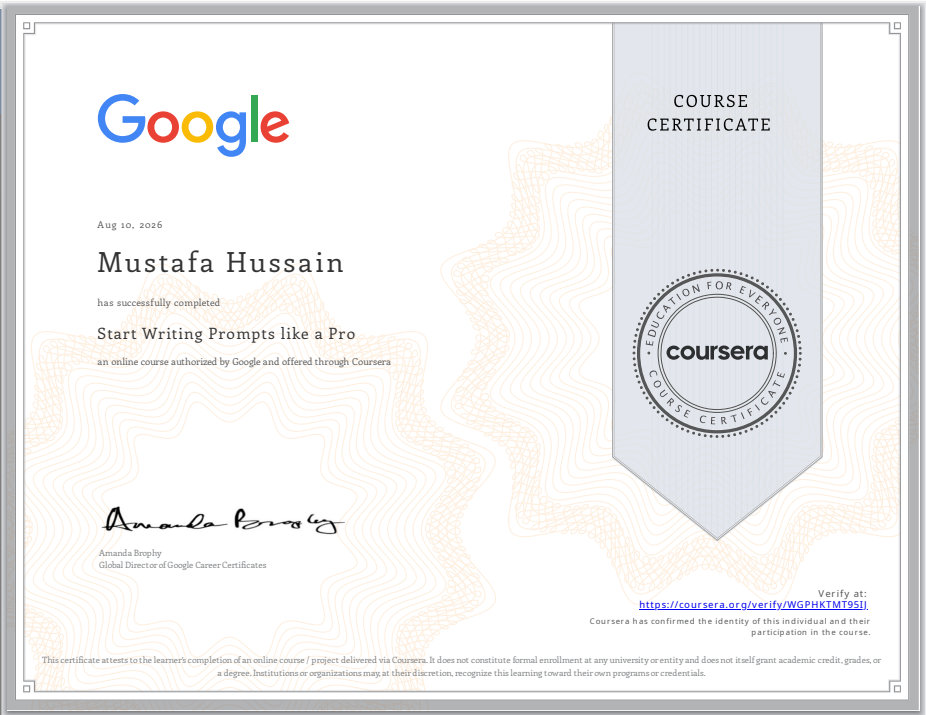
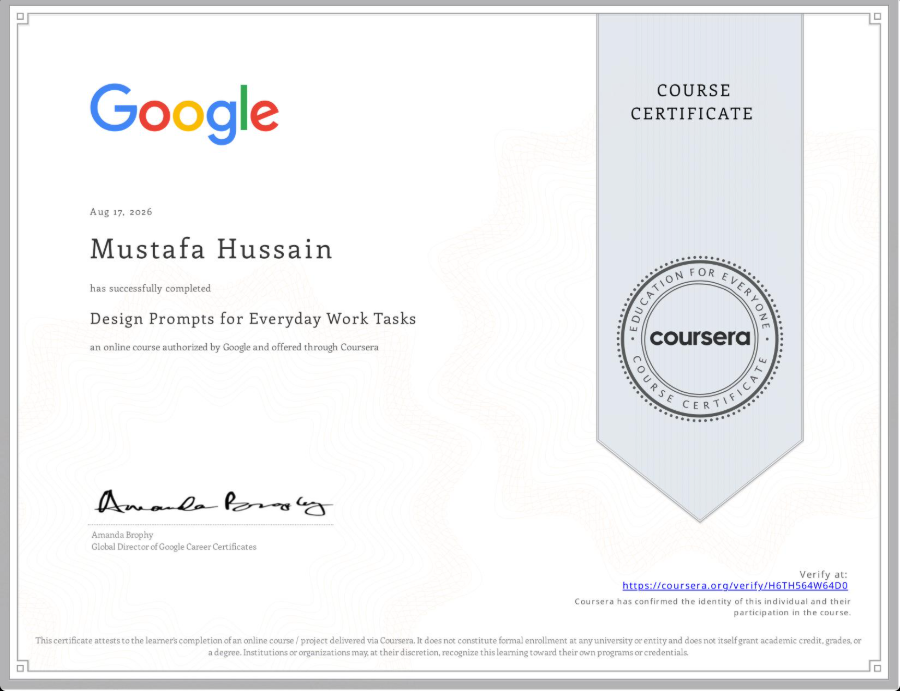
feat: add profile picture to hero and update certificates

diff --git a/src/components/Hero.tsx b/src/components/Hero.tsx
@@ -83,14 +83,17 @@ export default function Hero() {
                 <div className="w-2.5 h-2.5 rounded-full bg-gray-200" />
               </div>
               {/* Content Area */}
-              <div className="flex-1 relative p-8 flex flex-col justify-between">
+              <div className="flex-1 relative overflow-hidden">
+                <Image 
+                  src="/profile.jpg" 
+                  alt="Mustafa Hussain - Software Engineering Student & Python Developer" 
+                  fill 
+                  className="object-cover object-top grayscale-[20%] hover:grayscale-0 transition-all duration-700" 
+                  priority
+                />
                 
-                {/* Abstract Code/Tech representation */}
-                <div className="space-y-4 opacity-30">
-                  <div className="w-3/4 h-8 bg-gray-200" />
-                  <div className="w-1/2 h-4 bg-gray-200" />
-                  <div className="w-full h-32 bg-gray-200 mt-8" />
-                </div>
+                {/* Subtle gradient overlay to ensure tech labels remain readable */}
+                <div className="absolute inset-0 bg-gradient-to-t from-black/60 via-transparent to-transparent" />
 
                 {/* Tech Labels */}
                 <div className="absolute bottom-8 right-8 flex flex-col gap-3">
@@ -107,7 +110,6 @@ export default function Hero() {
                     <span className="text-xs font-mono font-medium text-foreground">Aspiring AI Engineer</span>
                   </div>
                 </div>
-
               </div>
             </div>
             

diff --git a/src/components/Certificates.tsx b/src/components/Certificates.tsx
@@ -34,6 +34,20 @@ const certificates = [
     credentialUrl: ""
   },
   {
+    title: "Letter of Recommendation (Internship)",
+    issuer: "Arch Technologies",
+    date: "May 30, 2026",
+    image: "/certificates/arch-tech-recommendation.png",
+    credentialUrl: ""
+  },
+  {
+    title: "Design Prompts for Everyday Work Tasks",
+    issuer: "Google / Coursera",
+    date: "Aug 17, 2026",
+    image: "/certificates/google-prompts.png",
+    credentialUrl: "https://coursera.org/verify/H6TH564W64D0"
+  },
+  {
     title: "HACKDATA V1 - Certificate of Participation",
     issuer: "Google Developer Groups (COMSATS University Wah)",
     date: "2026",
